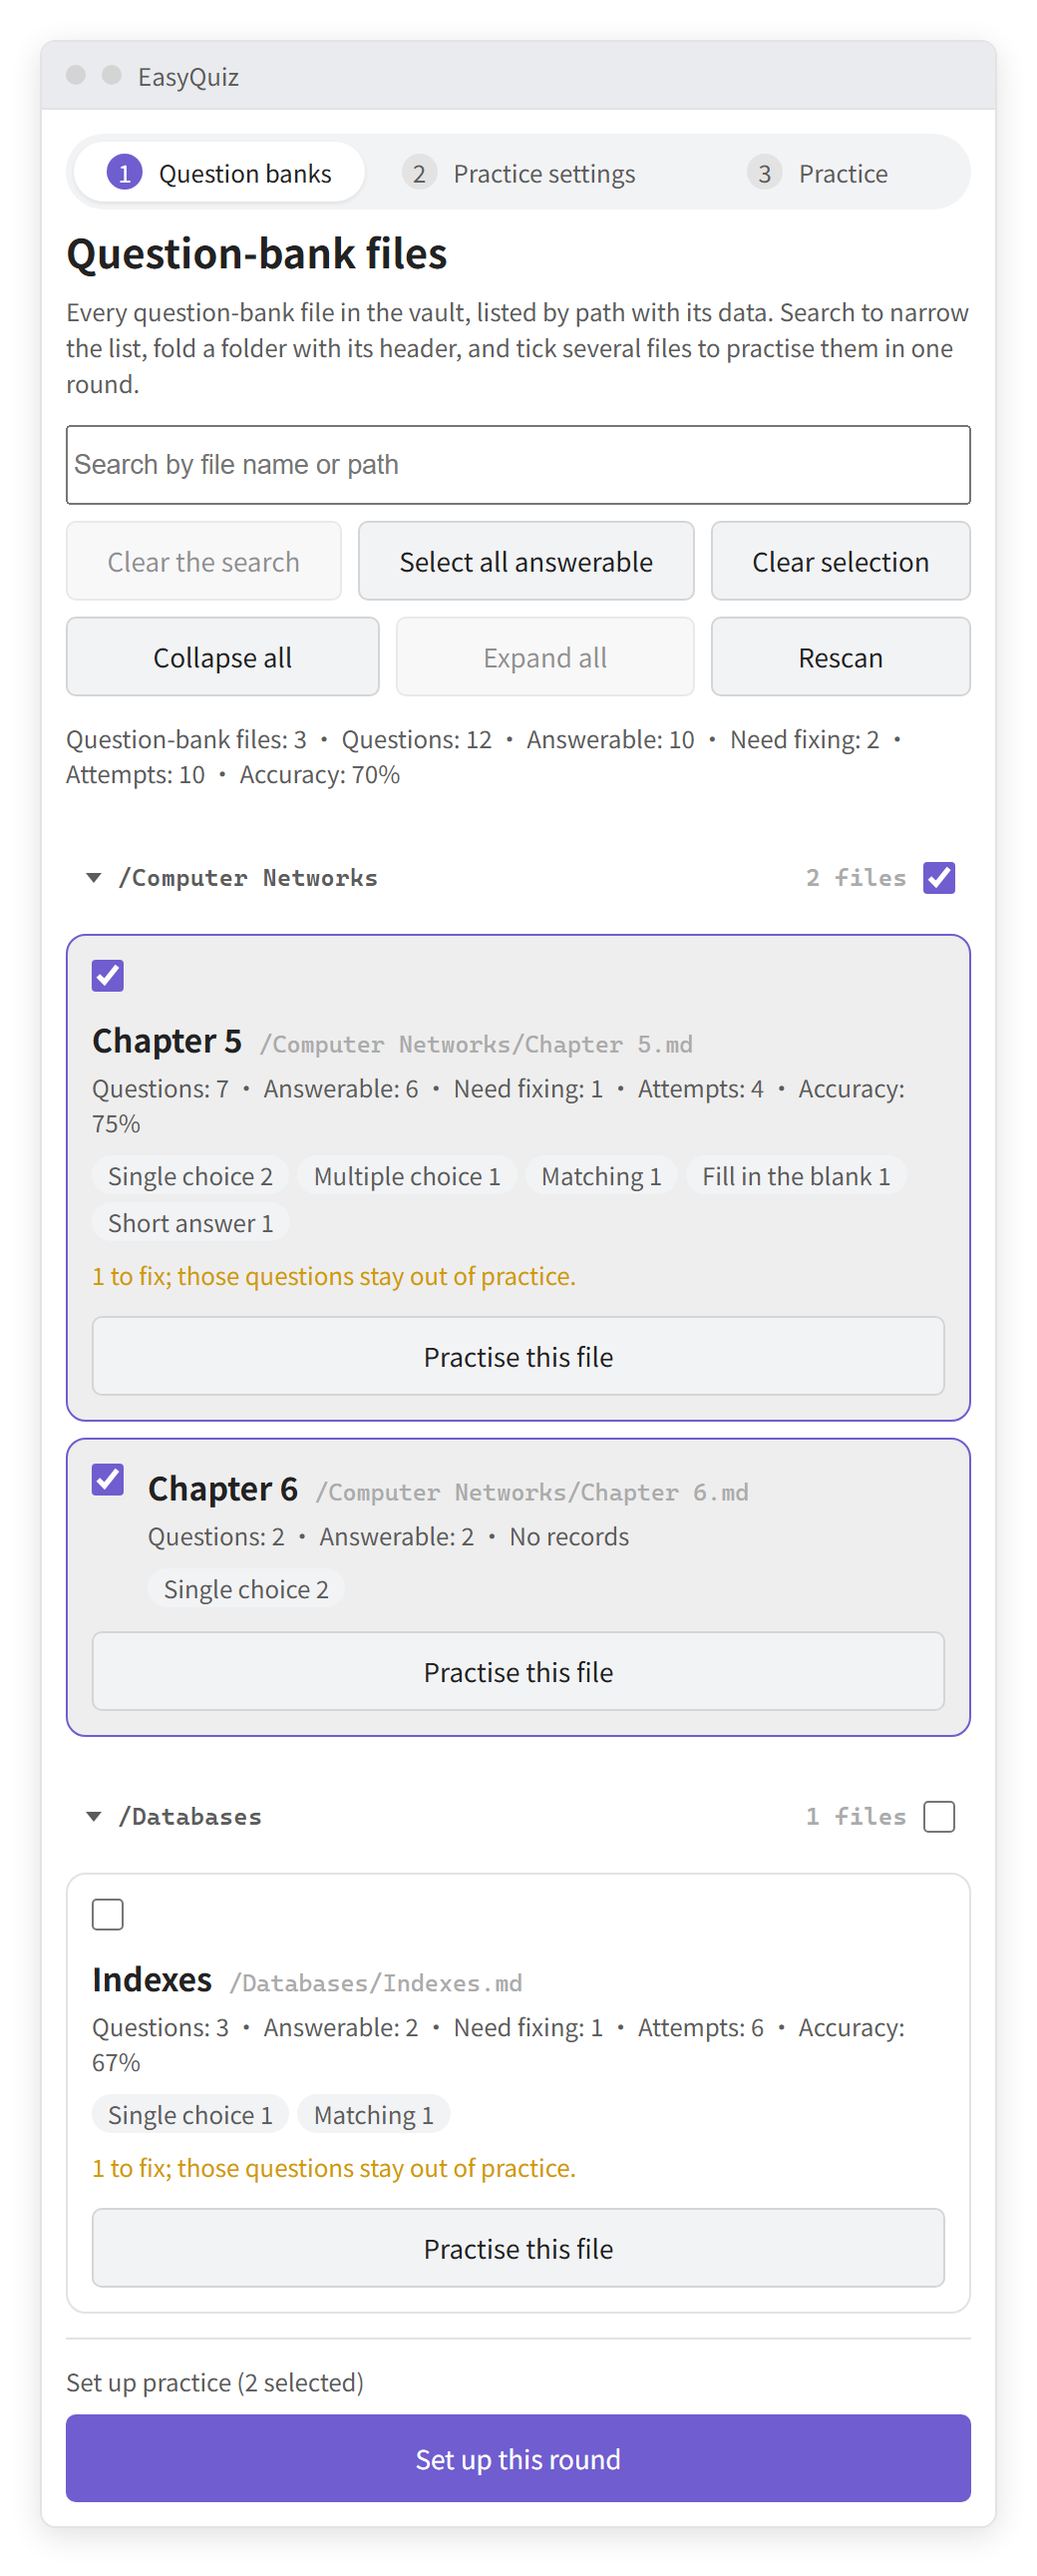
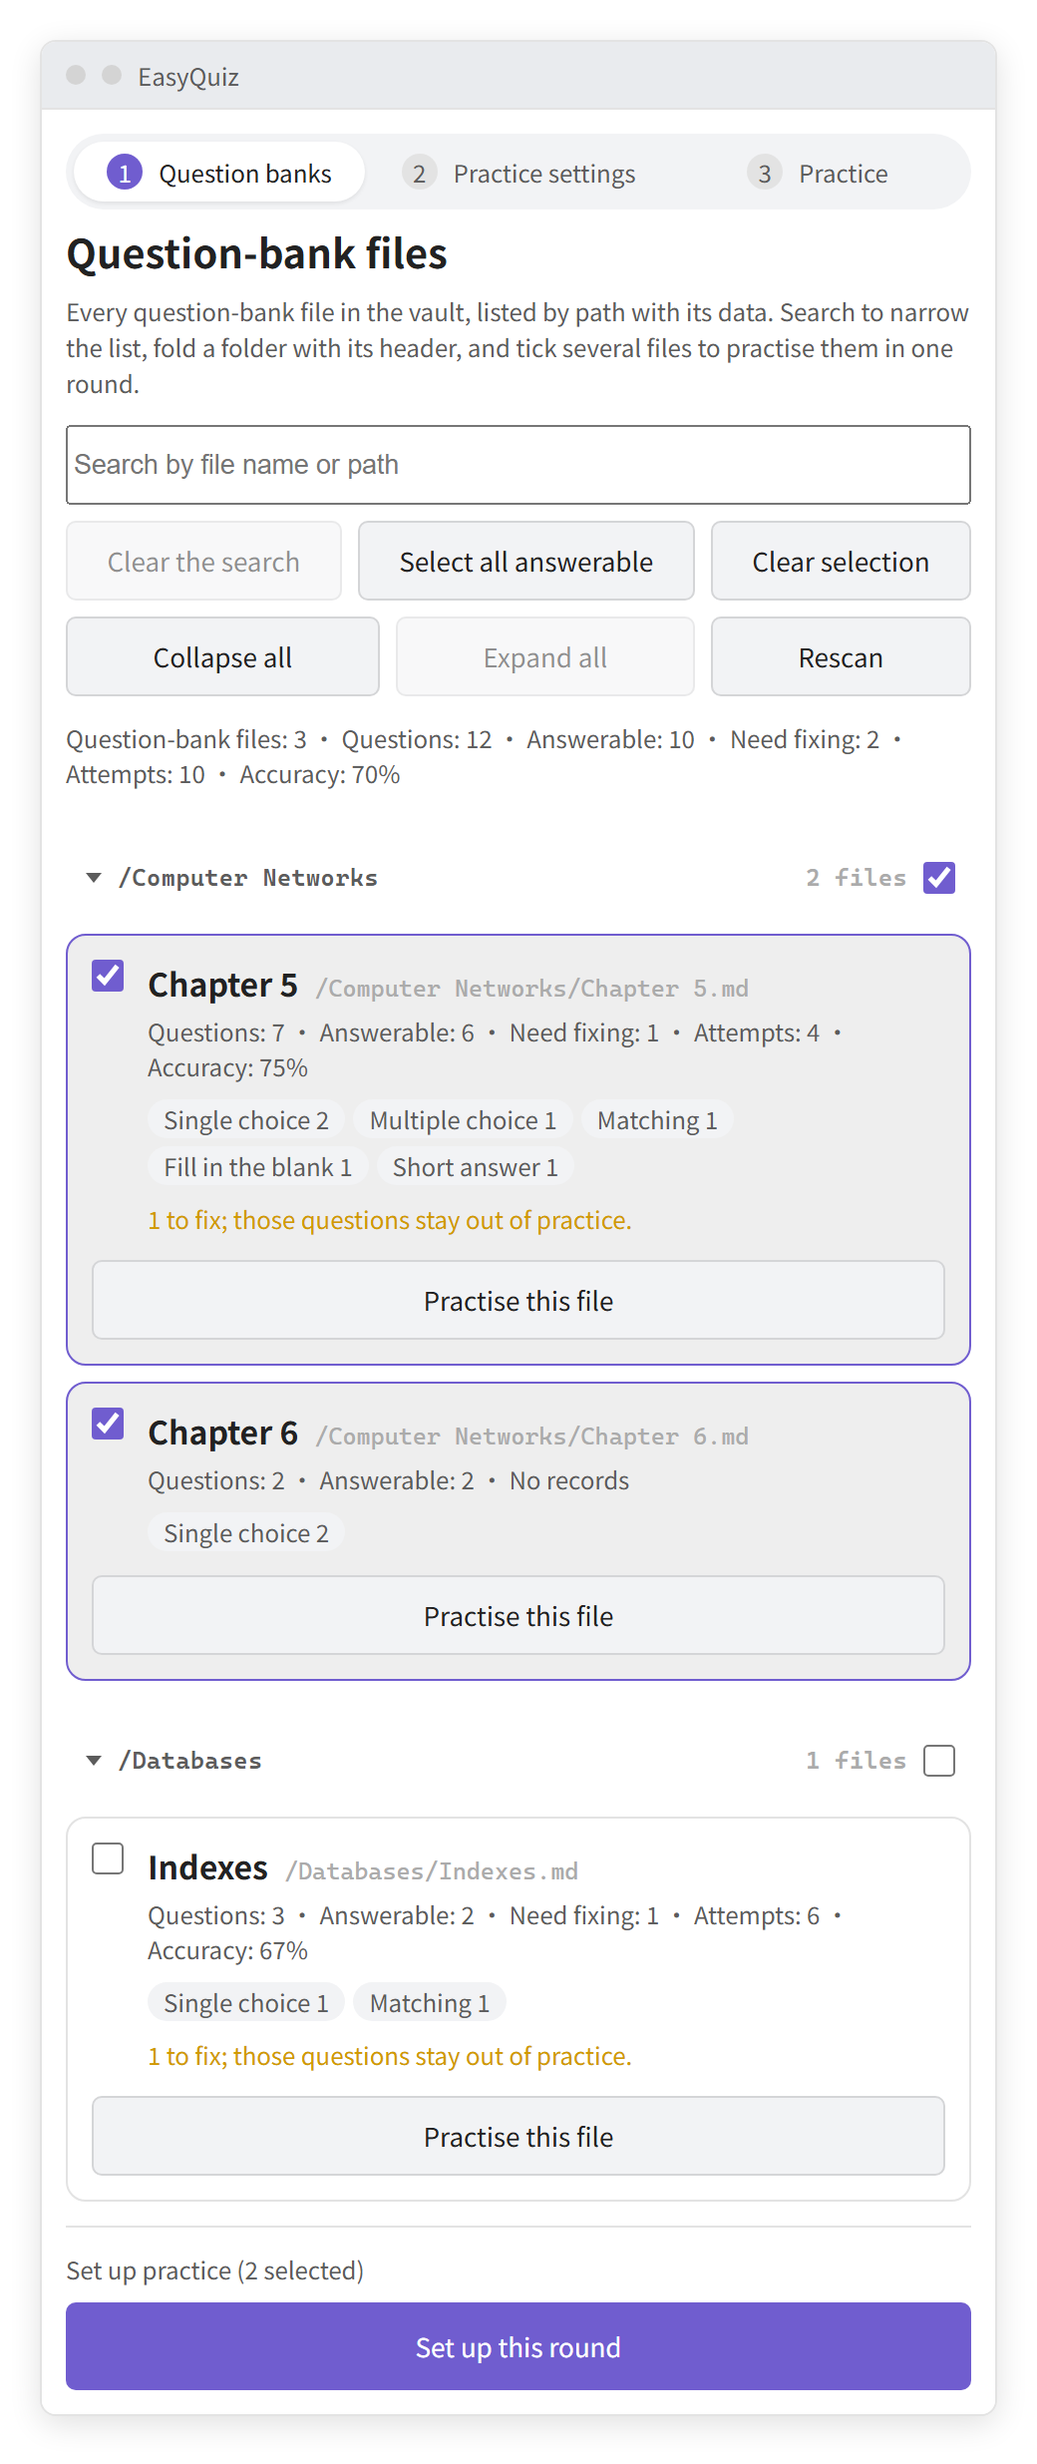
fix(practice): align the toolbar and the narrow-screen layout
`.easy-quiz-practice__toolbar` was pinned to the right with
`margin-left: auto`. In the practice page's header - a `flex-wrap: wrap`
row holding the title, the hint and the toolbar - a wrapping flex
container hands every bit of positive free space to auto margins, so once
the toolbar wrapped onto its own line that free space travelled with it as
a ~149px left margin. `align-self: flex-start` only affects the cross
axis and is therefore immune to wrapping; it also stops the taller
toolbar from being vertically centred against the short title.

Narrow screens had three further alignment defects:

- File rows indented inconsistently. `__file-main` kept its default
  `flex-basis: auto`, so the flex algorithm judged "does this fit?" by
  content width: rows with a long path pushed the whole text block onto a
  second line, indenting those rows by 40px while short-path rows sat at
  12px in the same list. Pinning `flex: 1 1 0` makes every row render the
  same way.
- The toolbar and the footer actions now wrap with `width: 100%` rather
  than `flex-basis: 100%`. Both are also children of column flex
  containers (`__panel`, `__summary`), where a percentage basis resolves
  against height instead of width.
- The jump input was 40px against 44px siblings in a row with
  `align-items: center`, leaving it visibly short at top and bottom.

jsdom has no layout engine, so `tests/quiz-styles.test.ts` asserts on the
declarations that cause these bugs: no auto margin on the toolbar, no
[…]

diff --git a/tests/quiz-styles.test.ts b/tests/quiz-styles.test.ts
@@ -46,6 +46,37 @@ function solidSuccessBackgrounds(css: string): string[] {
 	return offenders;
 }
 
+/** 取出 `@media (max-width: 640px)` 的整段规则（窄屏布局都写在这里）。 */
+function mobileBlock(css: string): string {
+	const start = css.indexOf("@media (max-width: 640px)");
+	assert(start >= 0, "样式表里找不到 640px 的窄屏断点");
+	const open = css.indexOf("{", start);
+	assert(open > 0, "窄屏断点的规则块不完整");
+	// 逐字符配平大括号：媒体查询里面还嵌着一层规则块，不能用第一个 `}` 收尾。
+	let depth = 0;
+	for (let index = open; index < css.length; index++) {
+		if (css[index] === "{") depth++;
+		else if (css[index] === "}") {
+			depth--;
+			if (depth === 0) return css.slice(open + 1, index);
+		}
+	}
+	throw new Error("窄屏断点的规则块不完整");
+}
+
+/** 从一段样式片段里取出某个选择器的声明块（片段里的规则是缩进的）。 */
+function nestedRuleBlock(scope: string, selector: string): string {
+	const escaped = selector.replace(/[.*+?^${}()|[\]\\]/g, "\\$&");
+	const pattern = new RegExp(`(?:^|\\n)\\s*${escaped}\\s*\\{`);
+	const match = pattern.exec(scope);
+	// 不用 assert：TS 无法从它推断出非空，后面的 match.index 会报错。
+	if (match === null) throw new Error(`窄屏样式里找不到规则 ${selector}`);
+	const open = scope.indexOf("{", match.index);
+	const close = scope.indexOf("}", open);
+	assert(open > 0 && close > open, `${selector} 的规则块不完整`);
+	return scope.slice(open + 1, close);
+}
+
 test("样式：没有任何规则用实心的 success 色铺底（会与文字同色）", () => {
 	const offenders = solidSuccessBackgrounds(styles);
 	assert(
@@ -91,4 +122,71 @@ test("样式：文件夹箭头展开时朝下、折叠时朝右", () => {
 
 	const folded = anyRuleBlock(styles, ".easy-quiz-practice__group.is-folded .easy-quiz-practice__folder-caret");
 	assert(/rotate\(-90deg\)/.test(folded), `折叠时应把朝下的箭头旋转成朝右，实际：${folded.trim()}`);
+});
+
+/**
+ * 工具条不能靠 `margin-left: auto` 定位。
+ *
+ * 页头的工具条与标题同处一行，而 flex 容器在"这一行放不下、提前换行"时，会把正的
+ * 剩余空间全部算进 auto 外边距：工具条一旦换到第二行，那 140 多 px 的外边距会跟着
+ * 一起过去，表现为左侧凭空缩进。这是纯排版问题，jsdom 里量不出来（没有布局引擎），
+ * 只能对声明做断言：定位必须走 align-self（只作用于交叉轴，换行前后都不变）。
+ */
+test("样式：工具条不靠 auto 外边距定位（换行后会凭空缩进）", () => {
+	const block = anyRuleBlock(styles, ".easy-quiz-practice__toolbar");
+	assert(
+		!/margin-left:\s*auto/.test(block),
+		`工具条不应使用 margin-left: auto 贴右——注意 flex 换行时它会变成缩进，实际：${block.trim()}`
+	);
+	assert(
+		/align-self:\s*flex-start/.test(block),
+		`工具条应靠 align-self: flex-start 与行首对齐，实际：${block.trim()}`
+	);
+});
+
+/**
+ * 窄屏下"换行占满整行"要用 `width: 100%` 而不是 `flex-basis: 100%`。
+ *
+ * 工具条既可能是行方向容器（页头）的子项，也可能是列方向容器（设置面板、成绩单）
+ * 的子项：百分比 flex-basis 在后者身上指的是高度，会把面板撑高。这两条规则一起
+ * 保证"行方向换行、列方向铺满"两种情形都对。
+ */
+test("样式：窄屏工具条用 width 而非 flex-basis 换行", () => {
+	const block = nestedRuleBlock(mobileBlock(styles), ".easy-quiz-practice__toolbar");
+	assert(/width:\s*100%/.test(block), `窄屏工具条应显式声明 width: 100%，实际：${block.trim()}`);
+	assert(
+		!/flex(-basis)?:[^;]*\b100%/.test(block),
+		`窄屏工具条不该用 flex-basis: 100%——工具条也可能是列方向容器的子项，百分比会落到高度上，实际：${block.trim()}`
+	);
+	assert(!/margin-left/.test(block), "窄屏工具条不需要再覆盖外边距（基准规则里已经没有了）");
+});
+
+/**
+ * 文件行在窄屏必须"勾选框 + 文字"稳定地排在同一行。
+ *
+ * `__file-main` 的 flex 基准默认取内容宽度，而 flex 容器判断"这一项还放不放得下"看的
+ * 正是基准尺寸：路径稍长的文件行会被挤到第二行，于是同一份清单里有的文件行缩进 12px、
+ * 有的缩进 40px。基准归零（flex: 1 1 0）之后所有行都一致。
+ */
+test("样式：窄屏文件行的正文基准归零（否则长短路径缩进不一致）", () => {
+	const block = nestedRuleBlock(mobileBlock(styles), ".easy-quiz-practice__file-main");
+	assert(
+		/flex:\s*1 1 0\b/.test(block),
+		`窄屏下 __file-main 的 flex-basis 应为 0，否则路径长度会决定它换不换行，实际：${block.trim()}`
+	);
+});
+
+/** 跳题输入框要和同排的导航按钮一样高，否则行内居中会让它上下各差一截。 */
+test("样式：窄屏跳题输入框与导航按钮等高（44px）", () => {
+	const mobile = mobileBlock(styles);
+	const nav = nestedRuleBlock(mobile, ".easy-quiz-practice__nav button");
+	const jump = nestedRuleBlock(mobile, ".easy-quiz-practice__jump");
+	const navHeight = /min-height:\s*(\d+)px/.exec(nav);
+	// 同上：assert 不做类型收窄，这里用显式判断。
+	if (navHeight === null) throw new Error(`导航按钮应声明 min-height，实际：${nav.trim()}`);
+	const expected = navHeight[1];
+	assert(
+		new RegExp(`min-height:\\s*${expected}px`).test(jump),
+		`跳题输入框的高度应与导航按钮一致（${expected}px），实际：${jump.trim()}`
+	);
 });

diff --git a/styles.css b/styles.css
@@ -577,11 +577,24 @@
 	line-height: var(--line-height-normal);
 }
 
+/*
+ * 工具条靠 `align-self` 而不是 `margin-left: auto` 贴到行尾。
+ *
+ * 页头是 `flex-wrap: wrap`，工具条与标题**同处一行**：此前用 `margin-left: auto`
+ * 把它推到右边，而 flex 容器在"一行放不下、提前换行"时会把正的剩余空间全算进
+ * auto 外边距——于是工具条换到第二行之后，那 140 多 px 的外边距跟着一起过去，
+ * 表现为左侧凭空缩进。`align-self` 只作用于交叉轴，换行前后都不会改变行内位置。
+ *
+ * 顺带一个好处：页头是 `align-items: center`，而工具条通常比标题高，居中会让
+ * 它的左边和标题的左边对不齐；改成靠行首对齐正好接上页头的左边界。
+ */
 .easy-quiz-practice__toolbar {
 	display: flex;
 	flex-wrap: wrap;
+	align-self: flex-start;
+	/* 不参与拉伸：撑满交叉轴会让工具条里换行的按钮摊得很开 */
+	flex: none;
 	gap: var(--eqq-2);
-	margin-left: auto;
 }
 
 .easy-quiz-practice__loading,
@@ -1153,6 +1166,10 @@
 	overflow-wrap: anywhere;
 }
 
+/*
+ * 工具条现在靠 `align-self` 定位（见上方规则），不再有 auto 外边距；
+ * 这条覆盖保留下来是为了让"总结面板里的操作按钮"与面板左边界齐平。
+ */
 .easy-quiz-practice__summary .easy-quiz-practice__toolbar {
 	margin-left: 0;
 }
@@ -1180,14 +1197,17 @@
 	}
 
 	/*
-	 * 工具条独占一行。注意这里是列方向的 flex 容器：flex-basis 指的是高度，
-	 * 因此用 width 铺满、flex 不伸缩，否则工具条会撑到整列那么高。
+	 * 工具条独占一行。
+	 *
+	 * `width: 100%` 同时解决两件事：在（行方向的）页头里让它放不下而换到第二行，
+	 * 换行之后又正好占满整行。不能用 `flex-basis: 100%`：工具条也可能是列方向容器
+	 * （.easy-quiz-practice__panel / __summary）的子项，百分比会落到高度上。
+	 * `flex: 0 0 auto` 让宽度由 width 决定，也不参与任何拉伸。
 	 */
 	.easy-quiz-practice__toolbar {
 		flex: 0 0 auto;
 		width: 100%;
 		align-items: center;
-		margin-left: 0;
 	}
 
 	/* 工具条里的按钮横向铺开，点起来更像一排标签而不是小按钮 */
@@ -1218,10 +1238,21 @@
 		height: 20px;
 	}
 
-	/* 文件行：勾选框 + 文字一行，「设置刷题」按钮独占下一行 */
+	/*
+	 * 文件行：勾选框 + 文字一行，「设置刷题」按钮独占下一行。
+	 *
+	 * `__file-main` 的 `flex-basis` 必须压掉（基准 0）：flex 容器决定"这一项还放不
+	 * 放得下"时看的是**基准尺寸**，而它默认取内容宽度——文件路径长的一行会被判成
+	 * 放不下、整块换到第二行，于是同样结构的文件行有的缩进 12px、有的缩进 40px。
+	 * 基准归零后所有行都稳定地"勾选框 + 文字一行"。
+	 */
 	.easy-quiz-practice__file {
 		flex-wrap: wrap;
 		padding: var(--eqq-3);
+	}
+
+	.easy-quiz-practice__file-main {
+		flex: 1 1 0;
 	}
 
 	.easy-quiz-practice__file > button {
@@ -1235,7 +1266,13 @@
 		margin-top: 1px;
 	}
 
-	/* 底部操作条：说明一行，按钮一行 */
+	/*
+	 * 底部操作条：说明一行，按钮一行。
+	 *
+	 * 同样用 `width: 100%` 而不是 `flex-basis: 100%` 换行——`__footer-actions`
+	 * 在设置页与计数文字同一行，基准取内容宽度时会随文字长短时换时不换；
+	 * 固定按整行宽度判断，就永远是"计数一行、按钮一行"。
+	 */
 	.easy-quiz-practice__footer {
 		flex-direction: column;
 		align-items: stretch;
@@ -1243,6 +1280,7 @@
 	}
 
 	.easy-quiz-practice__footer-actions {
+		width: 100%;
 		margin-left: 0;
 	}
 
@@ -1333,11 +1371,17 @@
 		min-height: 44px;
 	}
 
-	/* 跳题输入框挪到第二行并靠右，避免把按钮挤成一条 */
+	/*
+	 * 跳题输入框：高度必须和同排的三个导航按钮一致。
+	 *
+	 * 这里是行方向的 `align-items: center`：输入框只要比按钮矮，上下就会各差
+	 * 一截，看起来像"没对齐"。导航按钮在窄屏是 44px，输入框也跟着取 44px；
+	 * 放不下时它会整块换到第二行并靠右，两种排布下都与按钮齐平。
+	 */
 	.easy-quiz-practice__jump {
 		flex: 0 0 auto;
 		margin-left: auto;
-		min-height: 40px;
+		min-height: 44px;
 	}
 }
 
